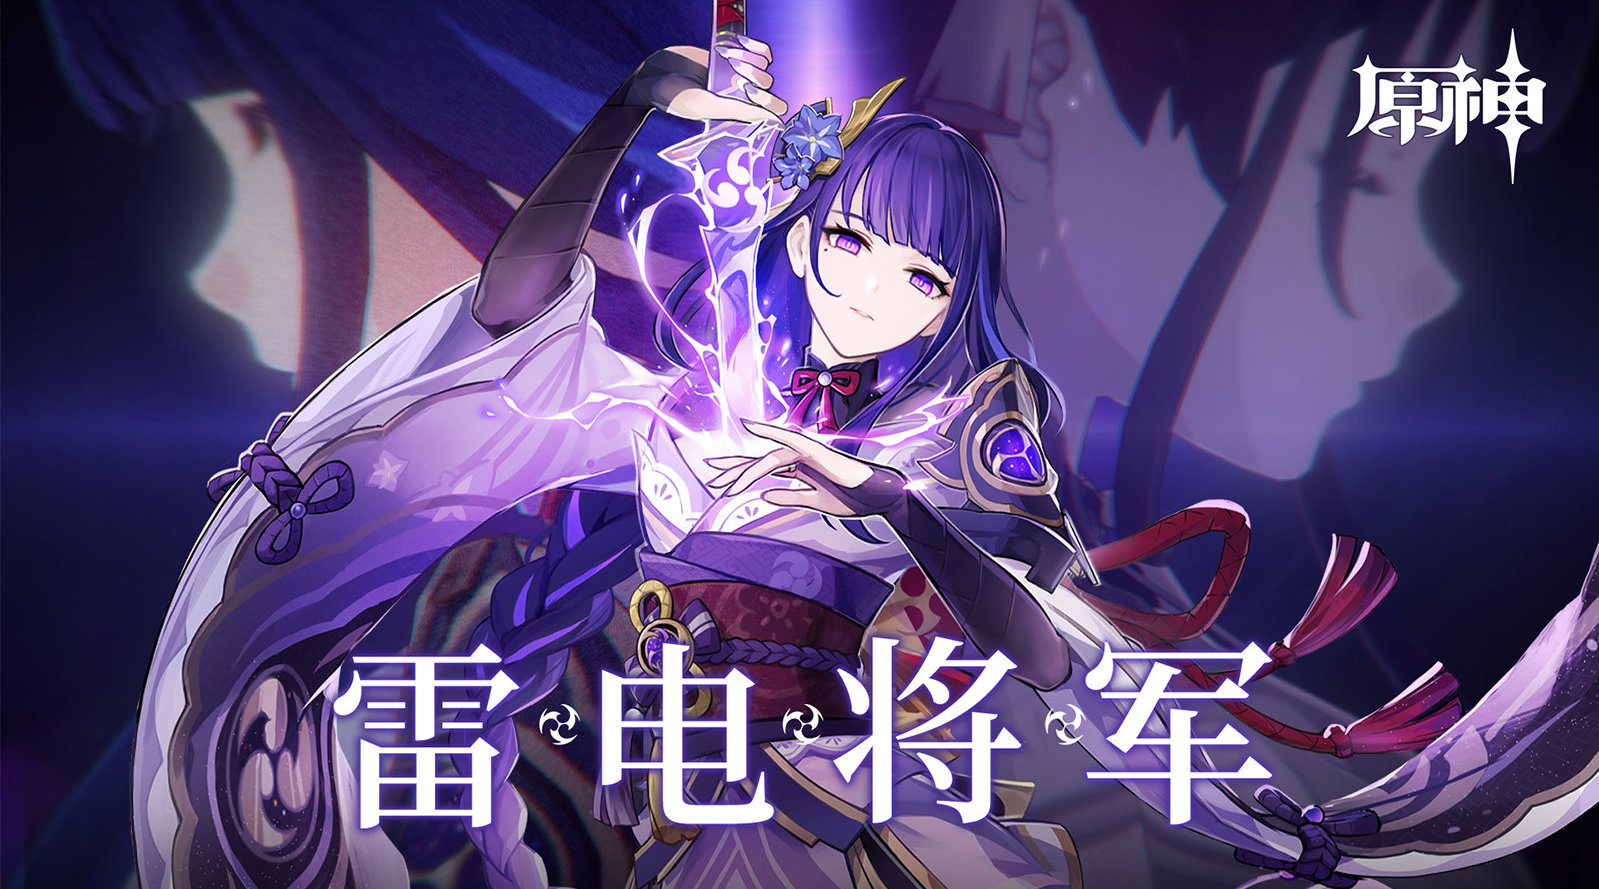
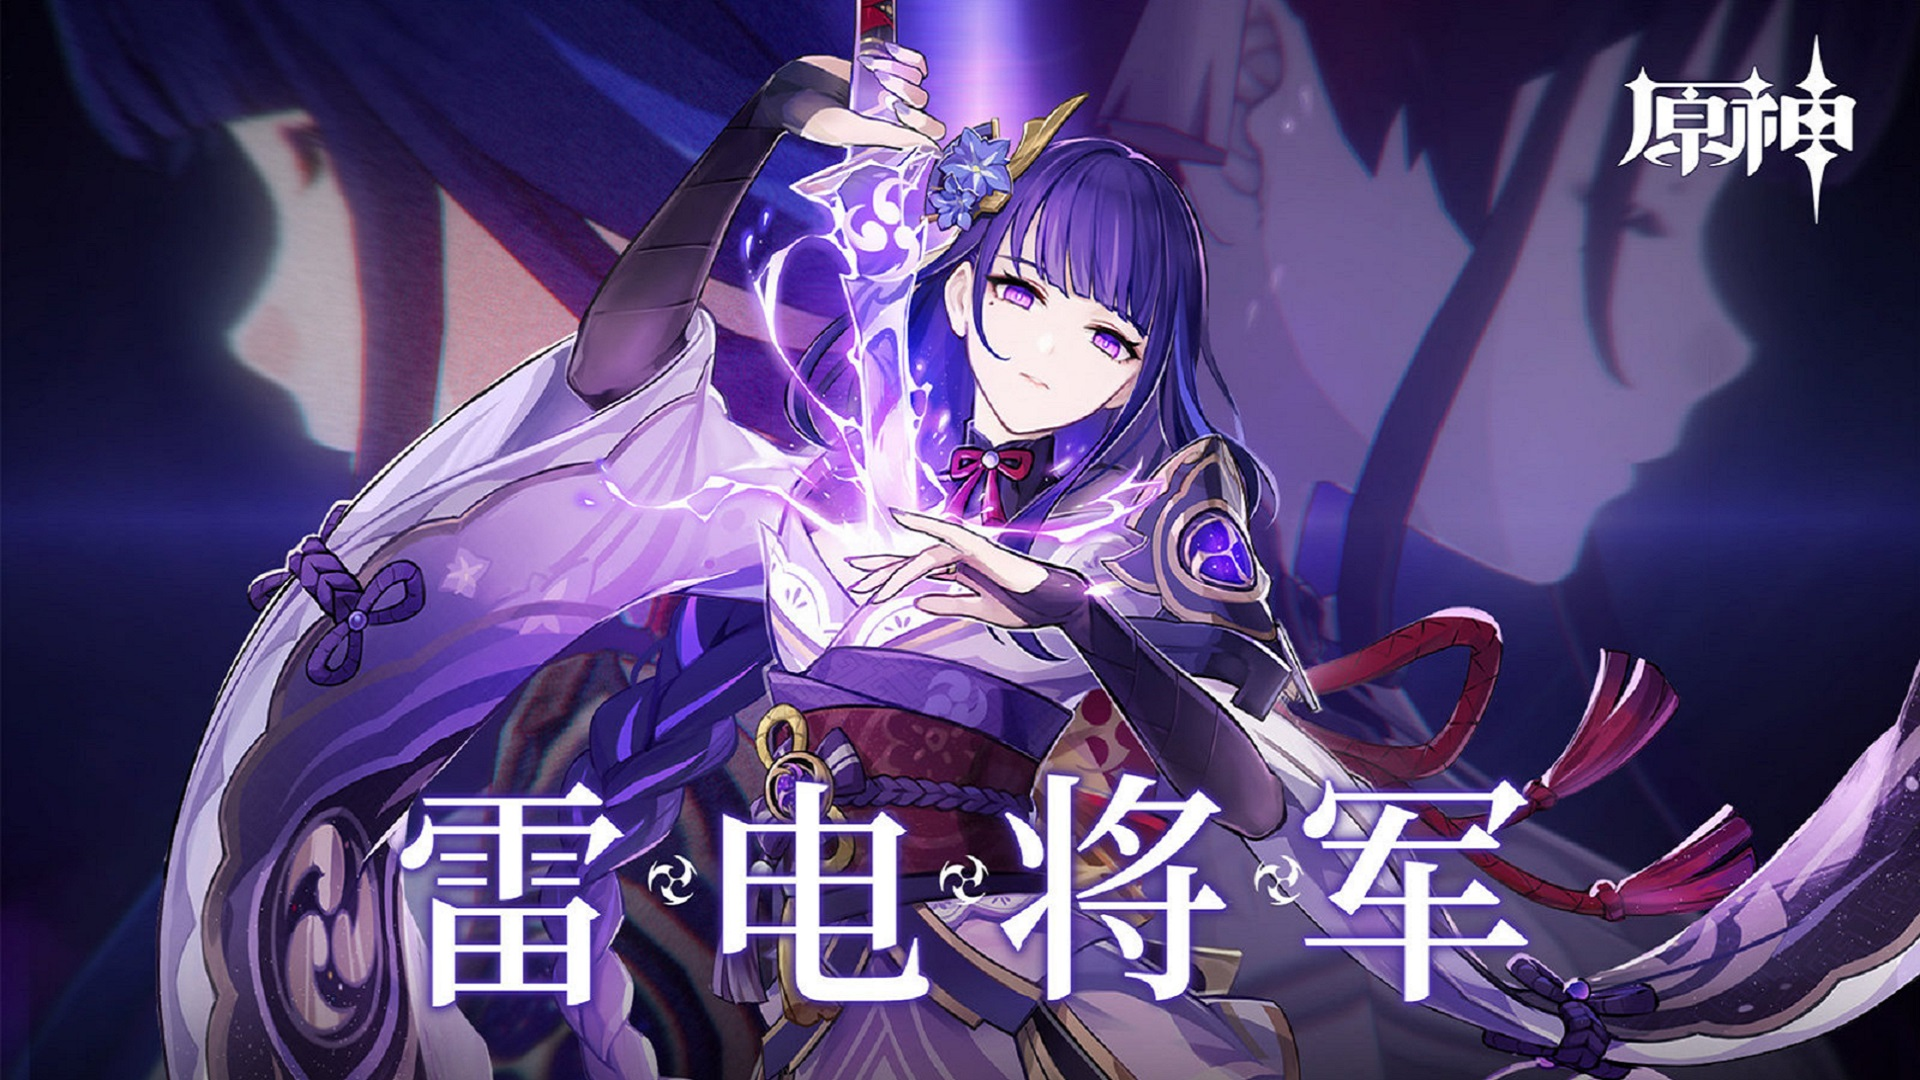
a

diff --git a/index.html b/index.html
@@ -2,7 +2,7 @@
 <head>
 <title>韩总私人网</title>
 </head>
-<table cellspacing="0" cellpadding="0" border="0" height="889" width="1599" background="images/thinbarbkg.jpg">
+<table cellspacing="0" cellpadding="0" border="0" height="1080" width="1920" background="images/9thinbarbkg.jpg">
   <tr> 
     <td width="186" height="2" valign="top"> 
       <div align="left"><a href="https://space.bilibili.com/440203939"><img src="images/leftbutton1.gif" width="137" height="31" border="0"></a><br>
